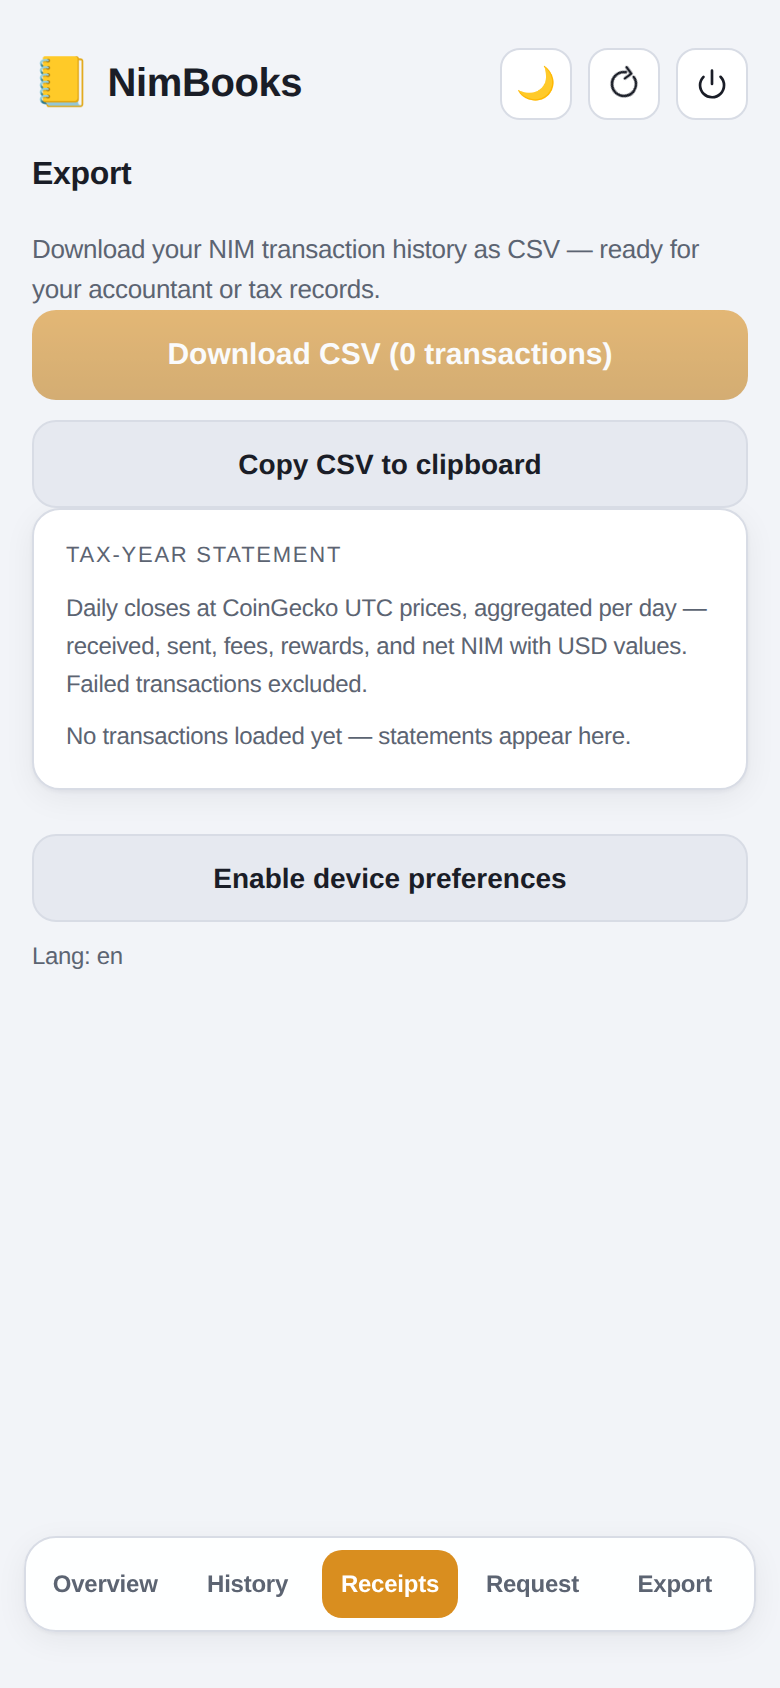
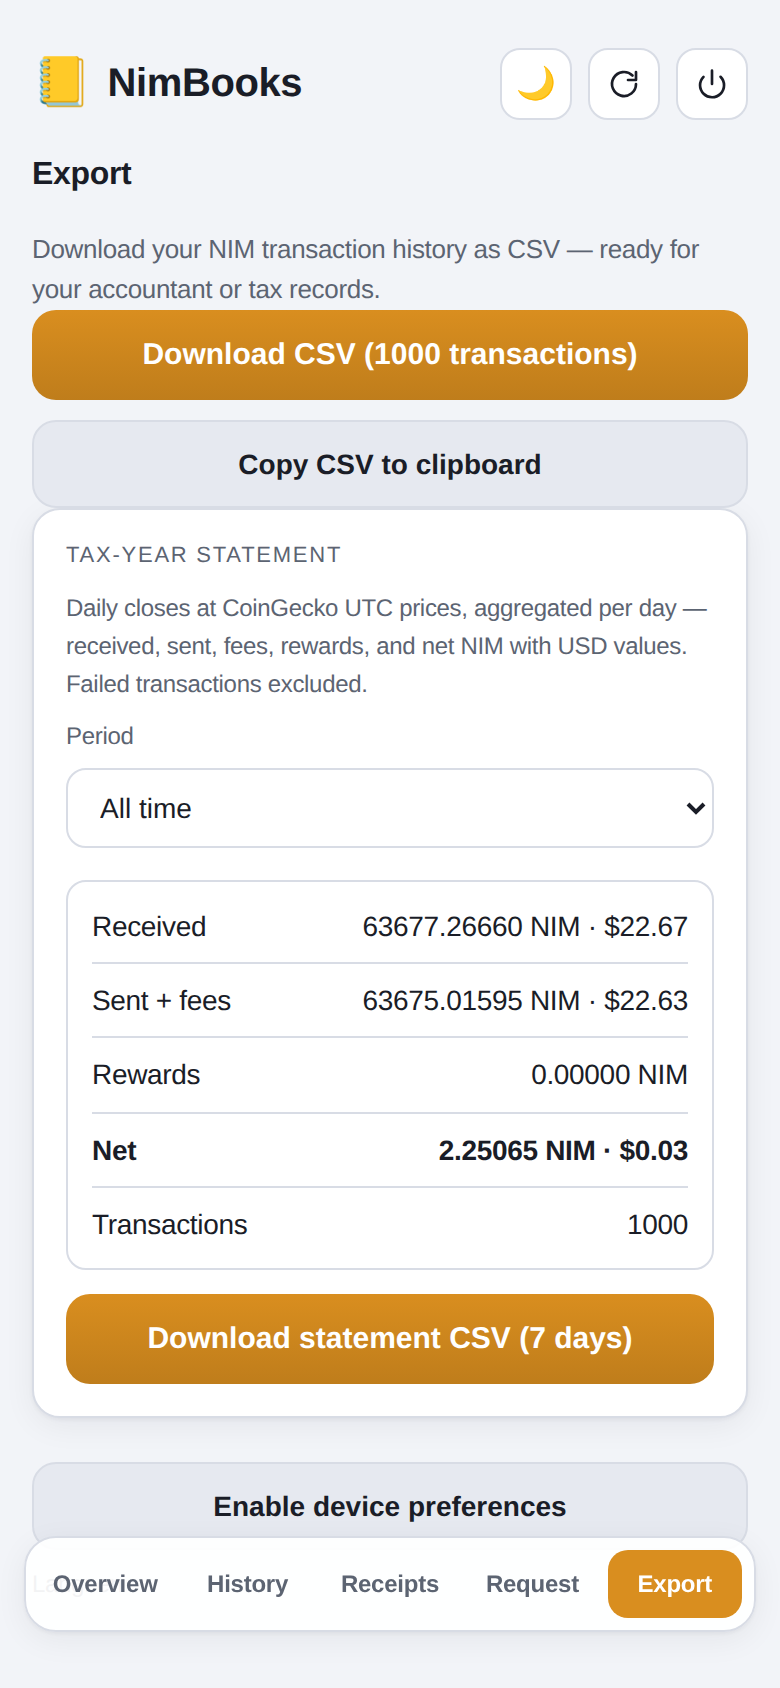
Statement button shows period name (All time/2026) not day count; sent+fees USD at 4 decimals so subtotals sum to net

diff --git a/src/App.tsx b/src/App.tsx
@@ -1085,7 +1085,7 @@ export default function App() {
                       <span>
                         {(statement.totals.sentNim + statement.totals.feeNim).toFixed(5)} NIM
                         {statement.totals.sentUsd !== null &&
-                          ` · $${(statement.totals.sentUsd + (statement.totals.feeNim * (statement.rows[0]?.closeUsd ?? 0))).toFixed(2)}`}
+                          ` · $${(statement.totals.sentUsd + statement.totals.feeNim * (statement.rows[0]?.closeUsd ?? 0)).toFixed(4)}`}
                       </span>
                     </div>
                     <div className="row">
@@ -1105,7 +1105,7 @@ export default function App() {
                     </div>
                   </div>
                   <button className="btn-primary" onClick={exportStatementCsv}>
-                    Download statement CSV ({statement.rows.length} days)
+                    Download statement CSV ({statement.period})
                   </button>
                 </>
               )}
